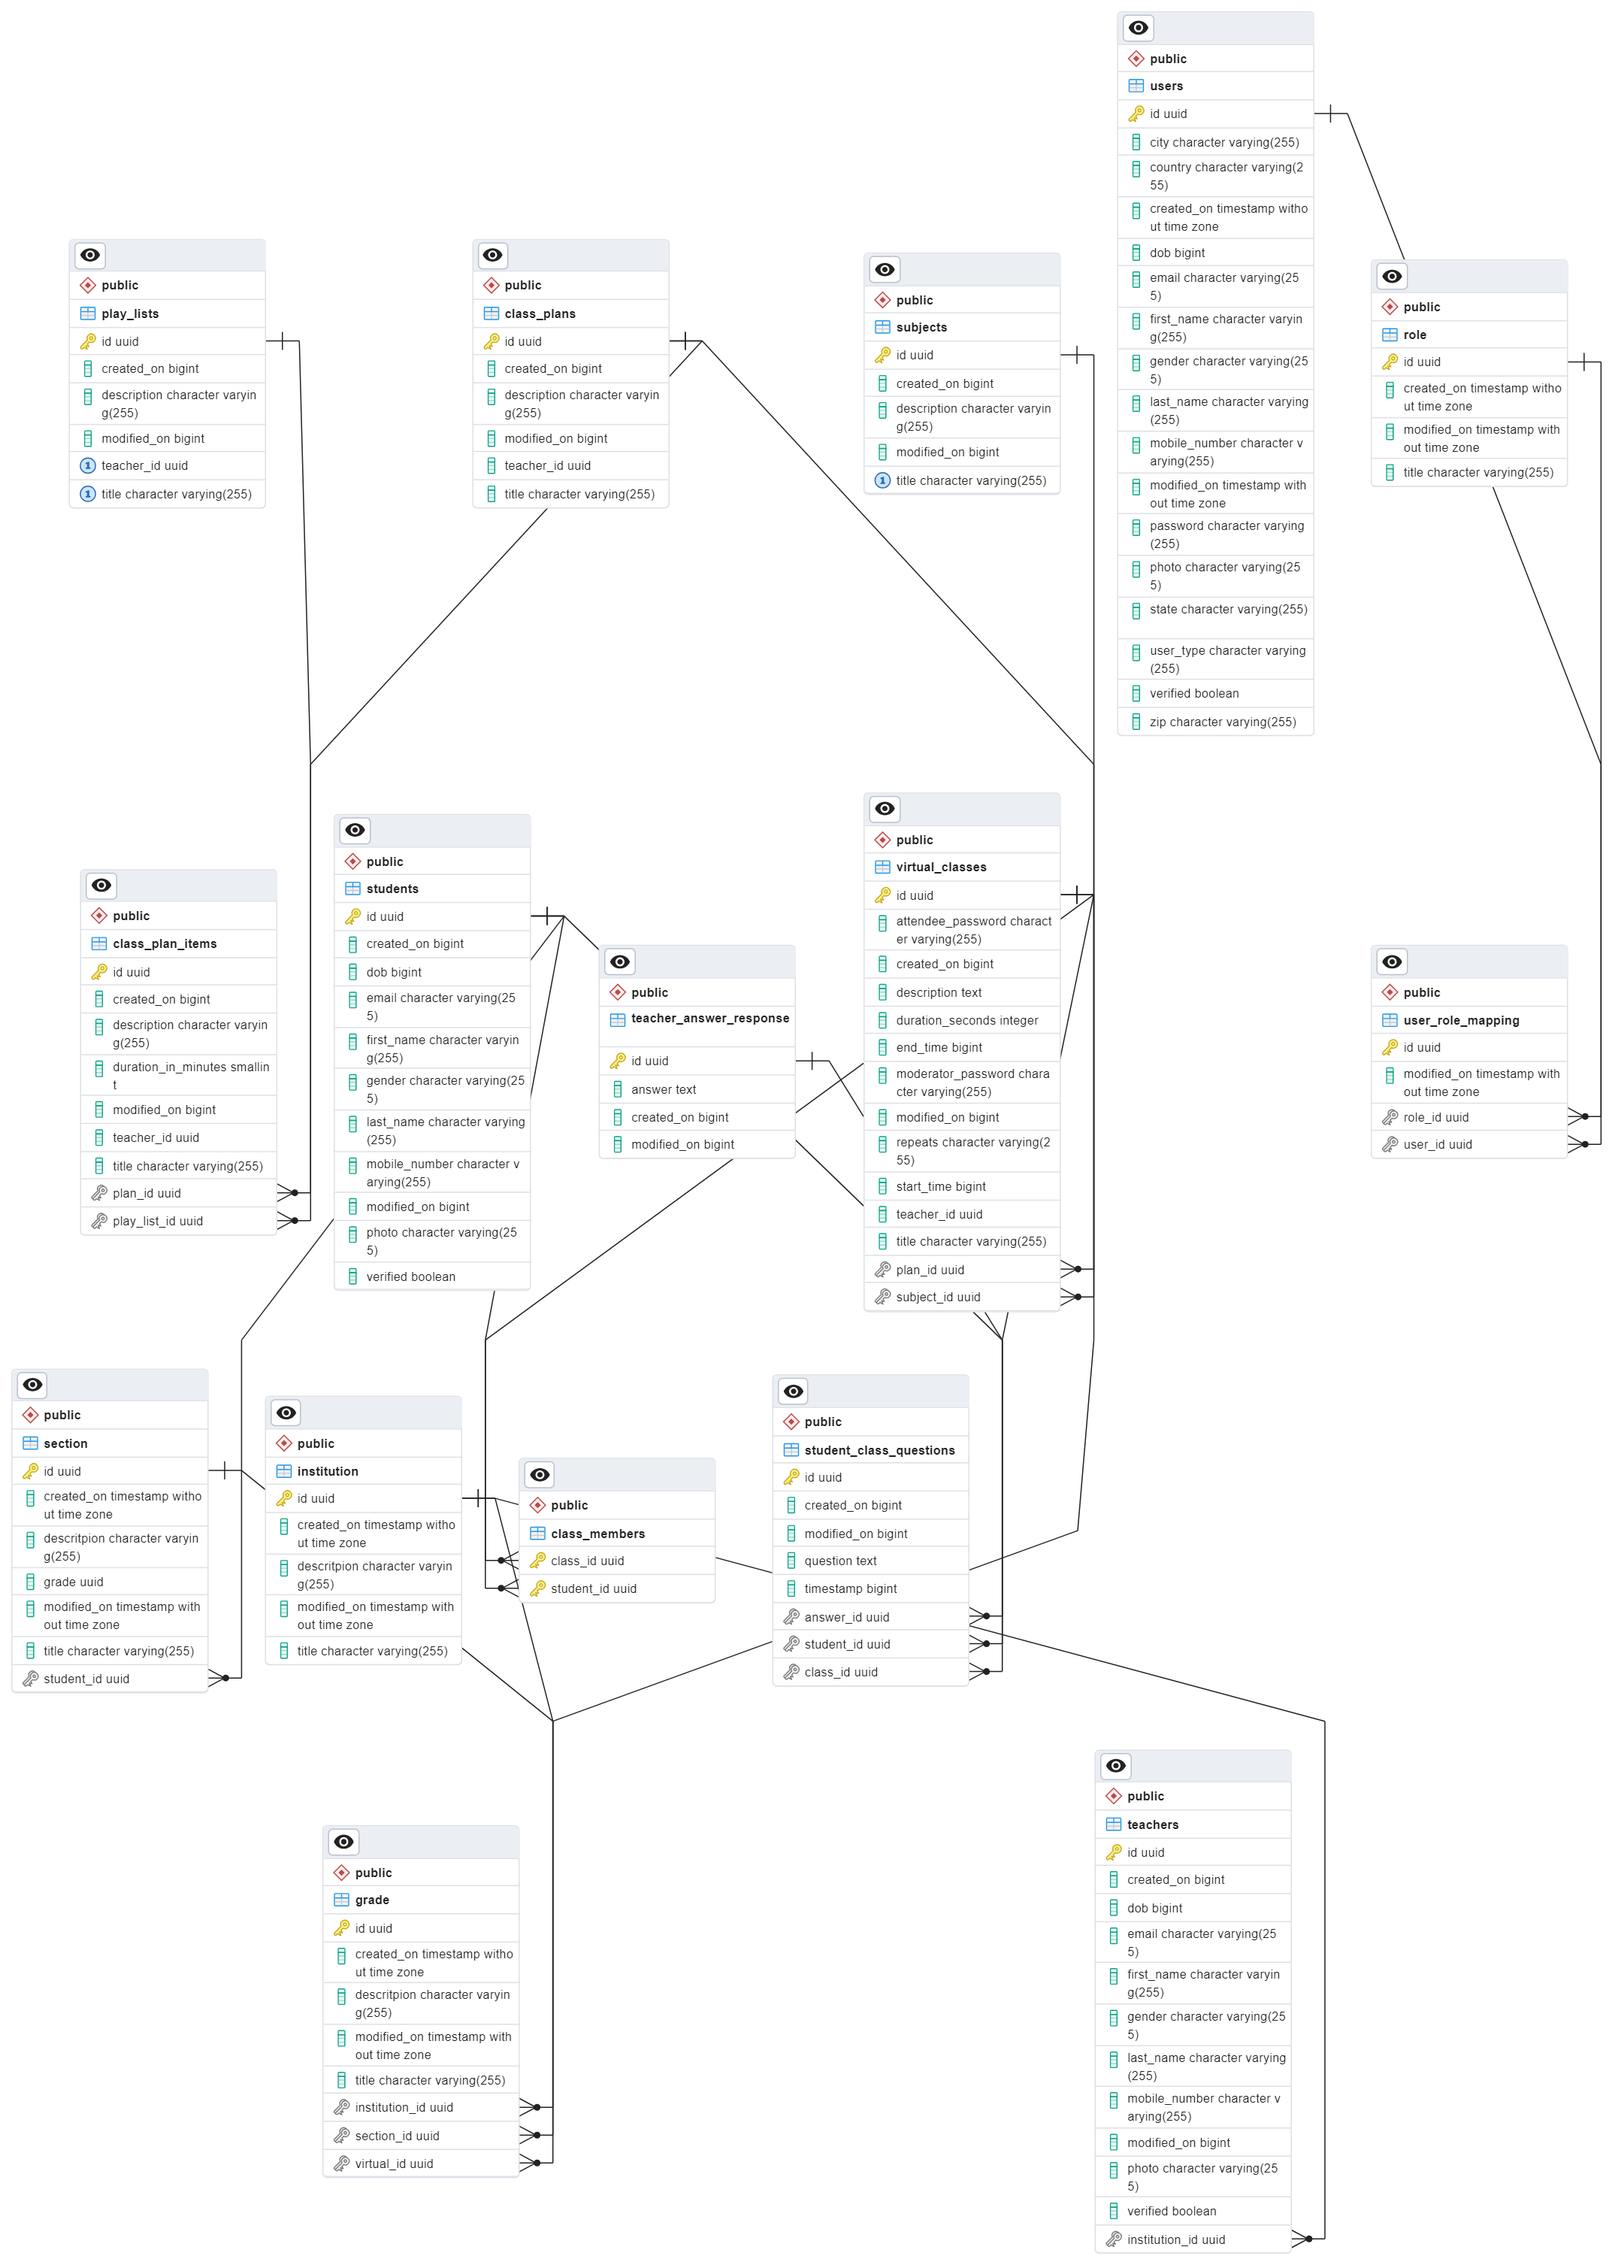
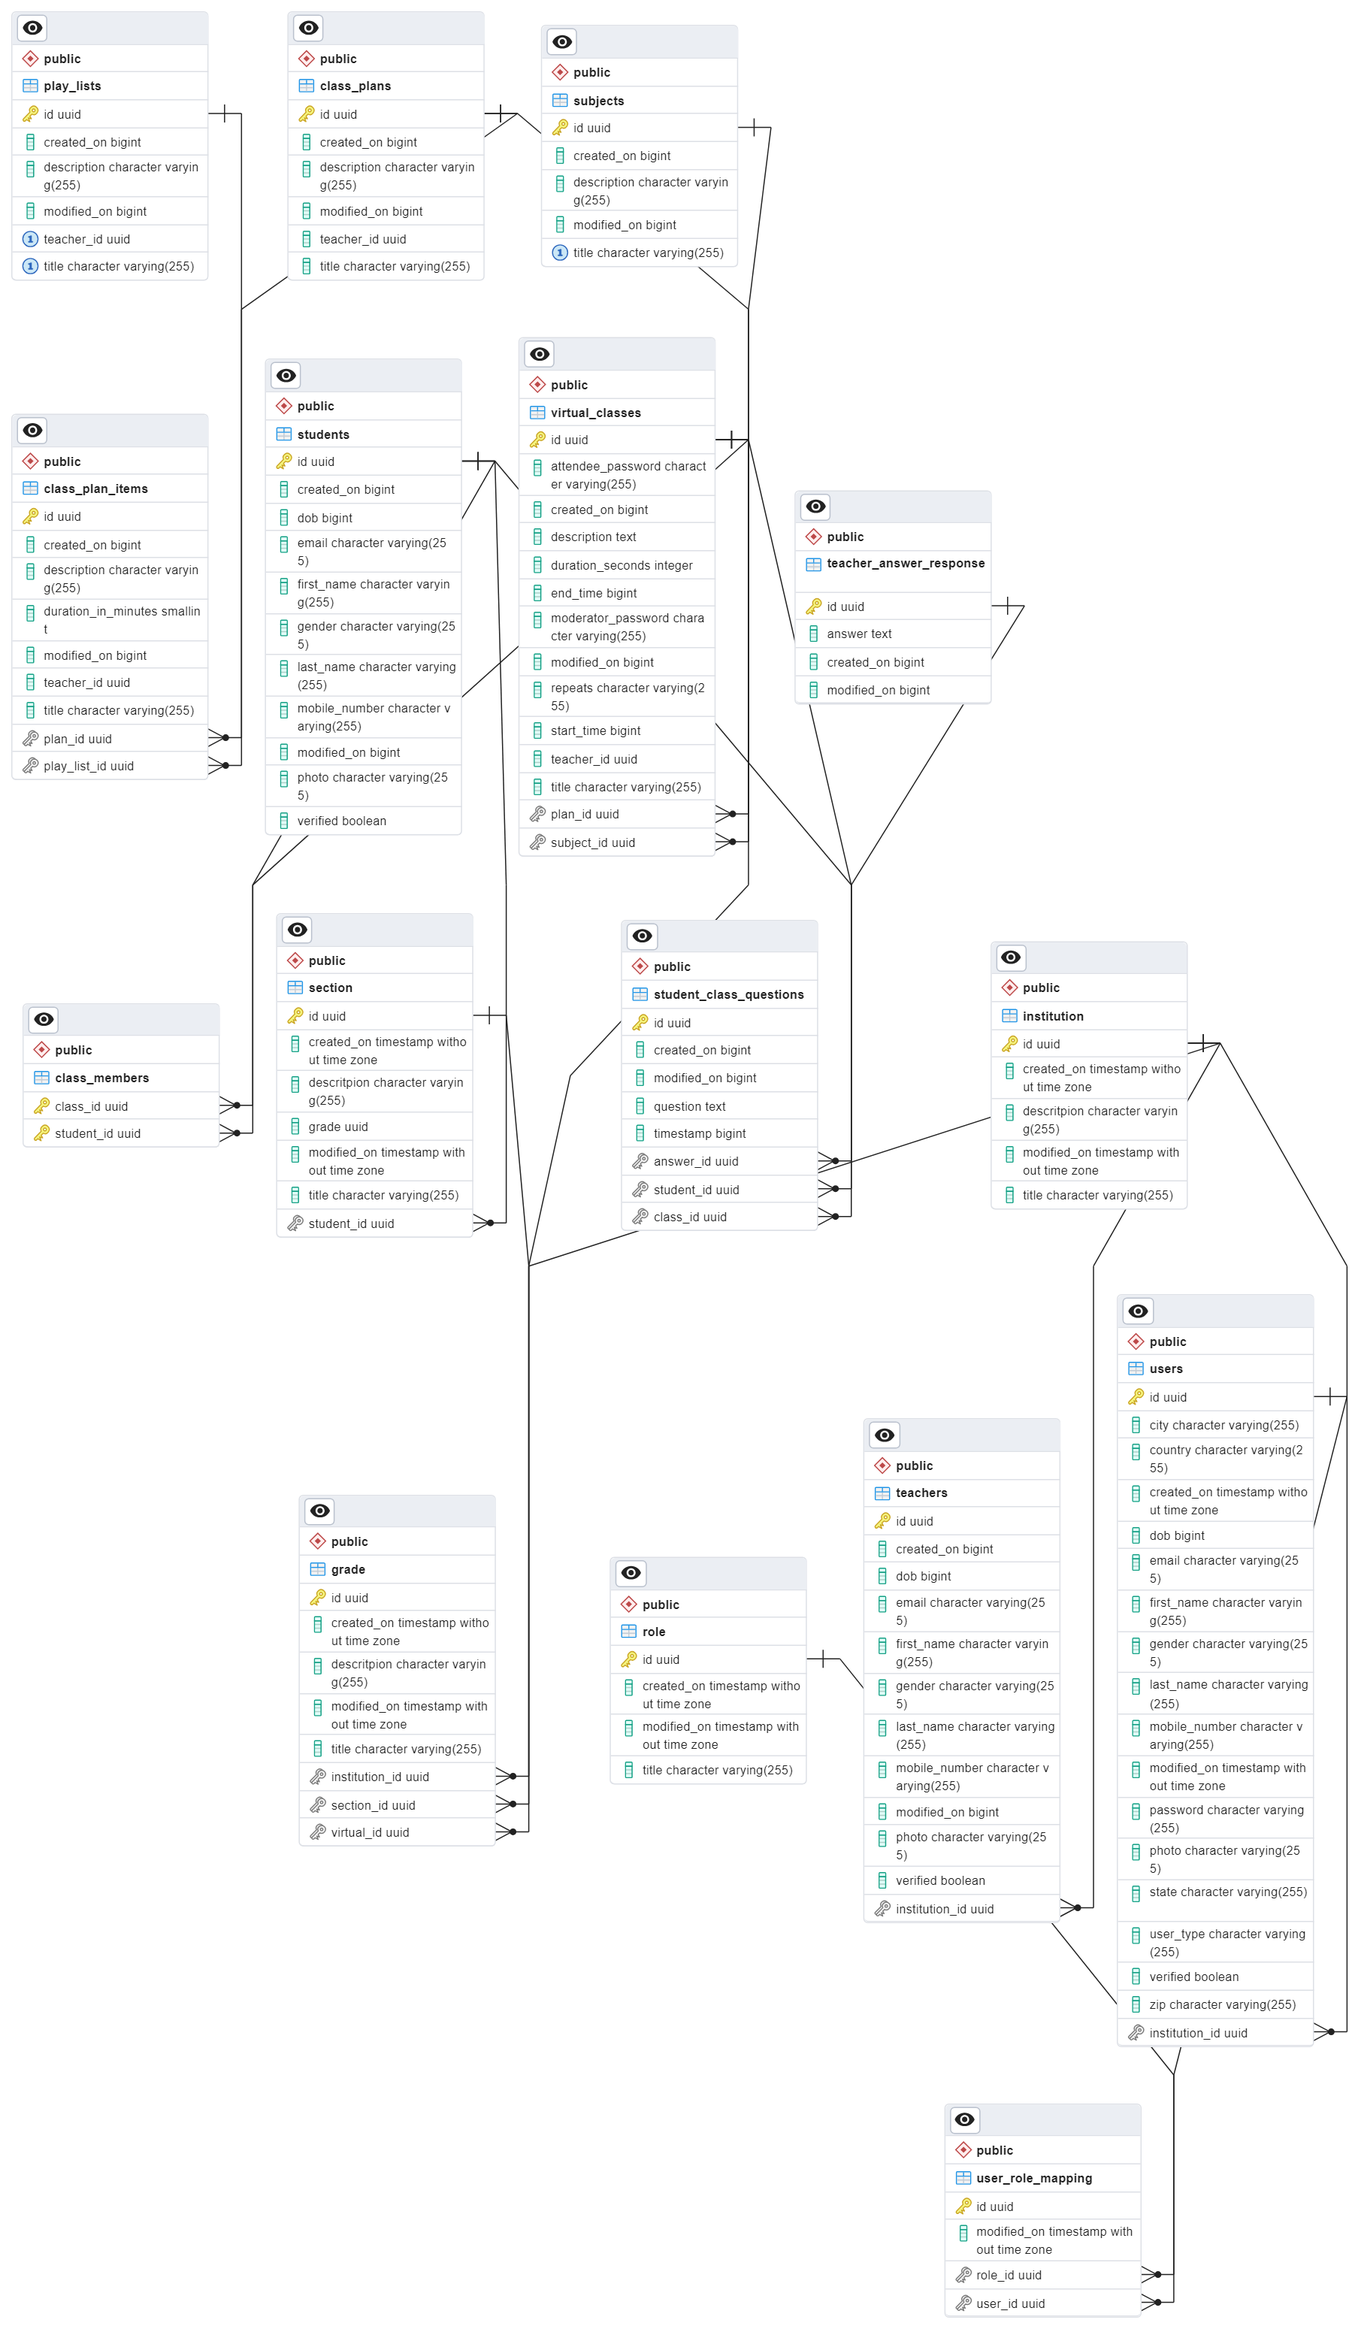
push the code with ER Diagram

diff --git a/src/main/java/ai/budding/services/UserService.java b/src/main/java/ai/budding/services/UserService.java
@@ -1,5 +1,6 @@
 package ai.budding.services;
 
+import java.util.ArrayList;
 import java.util.Date;
 import java.util.List;
 import java.util.Optional;
@@ -9,9 +10,11 @@ import javax.transaction.Transactional;
 
 import org.springframework.stereotype.Service;
 
+import ai.budding.repositories.InstitutionRepository;
 import ai.budding.repositories.RoleRepository;
 import ai.budding.repositories.UserRepository;
 import ai.budding.repositories.UserRoleMappingRepository;
+import ai.budding.models.jpa.Institution;
 import ai.budding.models.jpa.Role;
 import ai.budding.models.jpa.User;
 import ai.budding.models.jpa.UserRoleMapping;
@@ -25,15 +28,31 @@ public class UserService {
 
     private final UserRoleMappingRepository userRoleMappingRepository;
 
+    private final InstitutionRepository institutionRepository;
+
     public UserService(UserRepository userRepository, RoleRepository roleRepository,
-            UserRoleMappingRepository userRoleMappingRepository) {
+            UserRoleMappingRepository userRoleMappingRepository, InstitutionRepository institutionRepository) {
         this.userRepository = userRepository;
         this.roleRepository = roleRepository;
         this.userRoleMappingRepository = userRoleMappingRepository;
+        this.institutionRepository = institutionRepository;
     }
 
-    public List<User> getListOfUsers() {
-        return userRepository.findAll();
+    public List<com.ai.budding.models.User> getListOfUsers() {
+        List<User> users = userRepository.findAll();
+        List<com.ai.budding.models.User> result = new ArrayList<>();
+        users.forEach(user -> {
+            com.ai.budding.models.User userDto = new com.ai.budding.models.User();
+            userDto.setFirstName(user.getFirstName());
+            userDto.setLastName(user.getLastName());
+            userDto.setCity(user.getCity());
+            userDto.setCountry(user.getCountry());
+            userDto.setEmail(user.getEmail());
+            userDto.setGender(user.getGender());
+            userDto.setInstitutionId(user.getInstitution().getId());
+            result.add(userDto);
+        });
+        return result;
     }
 
     @Transactional
@@ -74,6 +93,9 @@ public class UserService {
             user.setUserType(userDto.getUserType());
             user.setVerified(true);
             user.setModifiedOn(new Date());
+
+            Optional<Institution> optionIns = institutionRepository.findById(userDto.getInstitutionId());
+            user.setInstitution(optionIns.isPresent() ? optionIns.get() : null);
             if (userRepository.save(user) != null) {
                 UserRoleMapping userRMapping = userRoleMappingRepository
                         .findByUserId(user.getId());

diff --git a/src/main/java/ai/budding/services/GradeService.java b/src/main/java/ai/budding/services/GradeService.java
@@ -1,5 +1,6 @@
 package ai.budding.services;
 
+import java.util.ArrayList;
 import java.util.Date;
 import java.util.List;
 import java.util.Optional;
@@ -9,19 +10,39 @@ import org.springframework.stereotype.Service;
 
 import ai.budding.dto.GradeDto;
 import ai.budding.repositories.GradeRepository;
+import ai.budding.repositories.InstitutionRepository;
+import ai.budding.repositories.VirtualClassRepository;
 import ai.budding.models.jpa.Grade;
+import ai.budding.models.jpa.Institution;
+import ai.budding.models.jpa.VirtualClass;
 
 @Service
 public class GradeService {
 
     private final GradeRepository gradeRepository;
+    private final InstitutionRepository institutionRepository;
+    private final VirtualClassRepository virtualClassRepository;
 
-    public GradeService(GradeRepository gradeRepository) {
+    public GradeService(GradeRepository gradeRepository,
+            InstitutionRepository institutionRepository,
+            VirtualClassRepository virtualClassRepository) {
         this.gradeRepository = gradeRepository;
+        this.institutionRepository = institutionRepository;
+        this.virtualClassRepository = virtualClassRepository;
     }
 
-    public List<Grade> getListOfGrades() {
-        return gradeRepository.findAll();
+    public List<GradeDto> getListOfGrades() {
+        List<Grade> grades = gradeRepository.findAll();
+        List<GradeDto> result = new ArrayList<>();
+        grades.forEach(grade -> {
+            GradeDto gradeDto = new GradeDto();
+            gradeDto.setTitle(grade.getTitle());
+            gradeDto.setDescritpion(grade.getDescritpion());
+            gradeDto.setInstitutionId(grade.getInstitution().getId());
+            gradeDto.setVirtualId(grade.getVirtualClass().getId());
+            result.add(gradeDto);
+        });
+        return result;
     }
 
     public Grade saveOrUpdateGrade(GradeDto gradeDto) {
@@ -40,6 +61,13 @@ public class GradeService {
 
             grade.setTitle(gradeDto.getTitle());
             grade.setDescritpion(gradeDto.getDescritpion());
+
+            Optional<Institution> optionIns = institutionRepository.findById(gradeDto.getInstitutionId());
+            grade.setInstitution(optionIns.isPresent() ? optionIns.get() : null);
+
+            Optional<VirtualClass> optionVirtualClass = virtualClassRepository.findById(gradeDto.getVirtualId());
+            grade.setVirtualClass(optionVirtualClass.isPresent() ? optionVirtualClass.get() : null);
+
             grade.setModifiedOn(new Date());
             return gradeRepository.save(grade);
         } catch (Exception exception) {
@@ -60,4 +88,5 @@ public class GradeService {
         }
         return false;
     }
+
 }

diff --git a/src/main/java/ai/budding/models/jpa/Grade.java b/src/main/java/ai/budding/models/jpa/Grade.java
@@ -1,8 +1,10 @@
 package ai.budding.models.jpa;
 
 import java.util.Date;
+import java.util.Set;
 import java.util.UUID;
 
+import javax.persistence.CascadeType;
 import javax.persistence.Column;
 import javax.persistence.Entity;
 import javax.persistence.EntityListeners;
@@ -11,6 +13,7 @@ import javax.persistence.GenerationType;
 import javax.persistence.Id;
 import javax.persistence.JoinColumn;
 import javax.persistence.ManyToOne;
+import javax.persistence.OneToMany;
 import javax.persistence.Table;
 
 import org.springframework.data.annotation.CreatedDate;
@@ -62,9 +65,8 @@ public class Grade {
     private VirtualClass virtualClass;
 
     @JsonIgnore
-    @ManyToOne
-    @JoinColumn(name = "section_id", nullable = false)
-    private Section section;
+    @OneToMany(mappedBy = "grade", cascade = CascadeType.ALL, orphanRemoval = true)
+    private Set<Section> sections;
 
     @JsonIgnore
     @ManyToOne

diff --git a/src/main/java/ai/budding/models/jpa/Section.java b/src/main/java/ai/budding/models/jpa/Section.java
@@ -1,10 +1,8 @@
 package ai.budding.models.jpa;
 
 import java.util.Date;
-import java.util.Set;
 import java.util.UUID;
 
-import javax.persistence.CascadeType;
 import javax.persistence.Column;
 import javax.persistence.Entity;
 import javax.persistence.EntityListeners;
@@ -13,7 +11,6 @@ import javax.persistence.GenerationType;
 import javax.persistence.Id;
 import javax.persistence.JoinColumn;
 import javax.persistence.ManyToOne;
-import javax.persistence.OneToMany;
 import javax.persistence.Table;
 
 import org.springframework.data.annotation.CreatedDate;
@@ -50,10 +47,6 @@ public class Section {
     @JsonProperty("grade")
     @Column(name = "grade")
     private UUID grade;
-
-    @JsonIgnore
-    @OneToMany(mappedBy = "section", cascade = CascadeType.ALL, orphanRemoval = true)
-    private Set<Grade> grades;
 
     @JsonIgnore
     @ManyToOne

diff --git a/src/main/java/ai/budding/models/jpa/UserRoleMapping.java b/src/main/java/ai/budding/models/jpa/UserRoleMapping.java
@@ -1,10 +1,8 @@
 package ai.budding.models.jpa;
 
 import java.util.Date;
-import java.util.Set;
 import java.util.UUID;
 
-import javax.persistence.CascadeType;
 import javax.persistence.Column;
 import javax.persistence.Entity;
 import javax.persistence.EntityListeners;
@@ -13,10 +11,8 @@ import javax.persistence.GenerationType;
 import javax.persistence.Id;
 import javax.persistence.JoinColumn;
 import javax.persistence.ManyToOne;
-import javax.persistence.OneToMany;
 import javax.persistence.Table;
 
-import org.springframework.data.annotation.CreatedDate;
 import org.springframework.data.annotation.LastModifiedDate;
 import org.springframework.data.jpa.domain.support.AuditingEntityListener;
 

diff --git a/src/main/java/ai/budding/models/jpa/User.java b/src/main/java/ai/budding/models/jpa/User.java
@@ -9,6 +9,8 @@ import javax.persistence.EntityListeners;
 import javax.persistence.GeneratedValue;
 import javax.persistence.GenerationType;
 import javax.persistence.Id;
+import javax.persistence.JoinColumn;
+import javax.persistence.ManyToOne;
 import javax.persistence.Table;
 
 import org.springframework.data.annotation.CreatedDate;
@@ -76,6 +78,11 @@ public class User {
 
     @JsonProperty("user_type")
     private String userType;
+
+    @JsonIgnore
+    @ManyToOne
+    @JoinColumn(name = "institution_id", nullable = false)
+    private Institution institution;
 
     @JsonIgnore
     private boolean verified;

diff --git a/src/main/java/ai/budding/controllers/UserController.java b/src/main/java/ai/budding/controllers/UserController.java
@@ -41,9 +41,9 @@ public class UserController {
     }
 
     @GetMapping()
-    public ResponseEntity<List<User>> allInstitution() {
+    public ResponseEntity<List<com.ai.budding.models.User>> allInstitution() {
         try {
-            List<User> lInstitutions = userService.getListOfUsers();
+            List<com.ai.budding.models.User> lInstitutions = userService.getListOfUsers();
             return ResponseEntity.ok(lInstitutions);
         } catch (NoSuchElementException e) {
             return ResponseEntity.notFound().build();

diff --git a/src/main/java/ai/budding/controllers/GradeController.java b/src/main/java/ai/budding/controllers/GradeController.java
@@ -42,9 +42,9 @@ public class GradeController {
     }
 
     @GetMapping()
-    public ResponseEntity<List<Grade>> allInstitution() {
+    public ResponseEntity<List<GradeDto>> allInstitution() {
         try {
-            List<Grade> lInstitutions = gradeService.getListOfGrades();
+            List<GradeDto> lInstitutions = gradeService.getListOfGrades();
             return ResponseEntity.ok(lInstitutions);
         } catch (NoSuchElementException e) {
             return ResponseEntity.notFound().build();

diff --git a/src/main/java/ai/budding/dto/GradeDto.java b/src/main/java/ai/budding/dto/GradeDto.java
@@ -2,7 +2,7 @@ package ai.budding.dto;
 
 import java.util.UUID;
 
-import fasterxml.jackson.annotation.JsonProperty;
+import com.fasterxml.jackson.annotation.JsonProperty;
 
 import lombok.Data;
 
@@ -16,4 +16,10 @@ public class GradeDto {
 
     @JsonProperty("descritpion")
     private String descritpion;
+
+    @JsonProperty("institution_id")
+    private UUID institutionId;
+
+    @JsonProperty("virtualId")
+    private UUID virtualId;
 }

diff --git a/src/main/java/ai/budding/repositories/VirtualClassRepository.java b/src/main/java/ai/budding/repositories/VirtualClassRepository.java
@@ -1,0 +1,10 @@
+package ai.budding.repositories;
+
+import java.util.UUID;
+import org.springframework.data.jpa.repository.JpaRepository;
+import ai.budding.models.jpa.VirtualClass;
+import java.util.Optional;
+
+public interface VirtualClassRepository extends JpaRepository<VirtualClass, UUID> {
+    Optional<VirtualClass> findById(UUID id);
+}

diff --git a/src/main/java/ai/budding/models/jpa/Institution.java b/src/main/java/ai/budding/models/jpa/Institution.java
@@ -63,4 +63,8 @@ public class Institution {
     @JsonIgnore
     @OneToMany(mappedBy = "institution", cascade = CascadeType.ALL, orphanRemoval = true)
     private Set<Teacher> teachers;
+
+    @JsonIgnore
+    @OneToMany(mappedBy = "institution", cascade = CascadeType.ALL, orphanRemoval = true)
+    private Set<User> users;
 }

diff --git a/src/main/java/ai/budding/models/User.java b/src/main/java/ai/budding/models/User.java
@@ -58,4 +58,7 @@ public class User {
 
     @JsonIgnore
     private boolean verified;
+
+    @JsonProperty("institution_id")
+    private UUID institutionId;
 }
